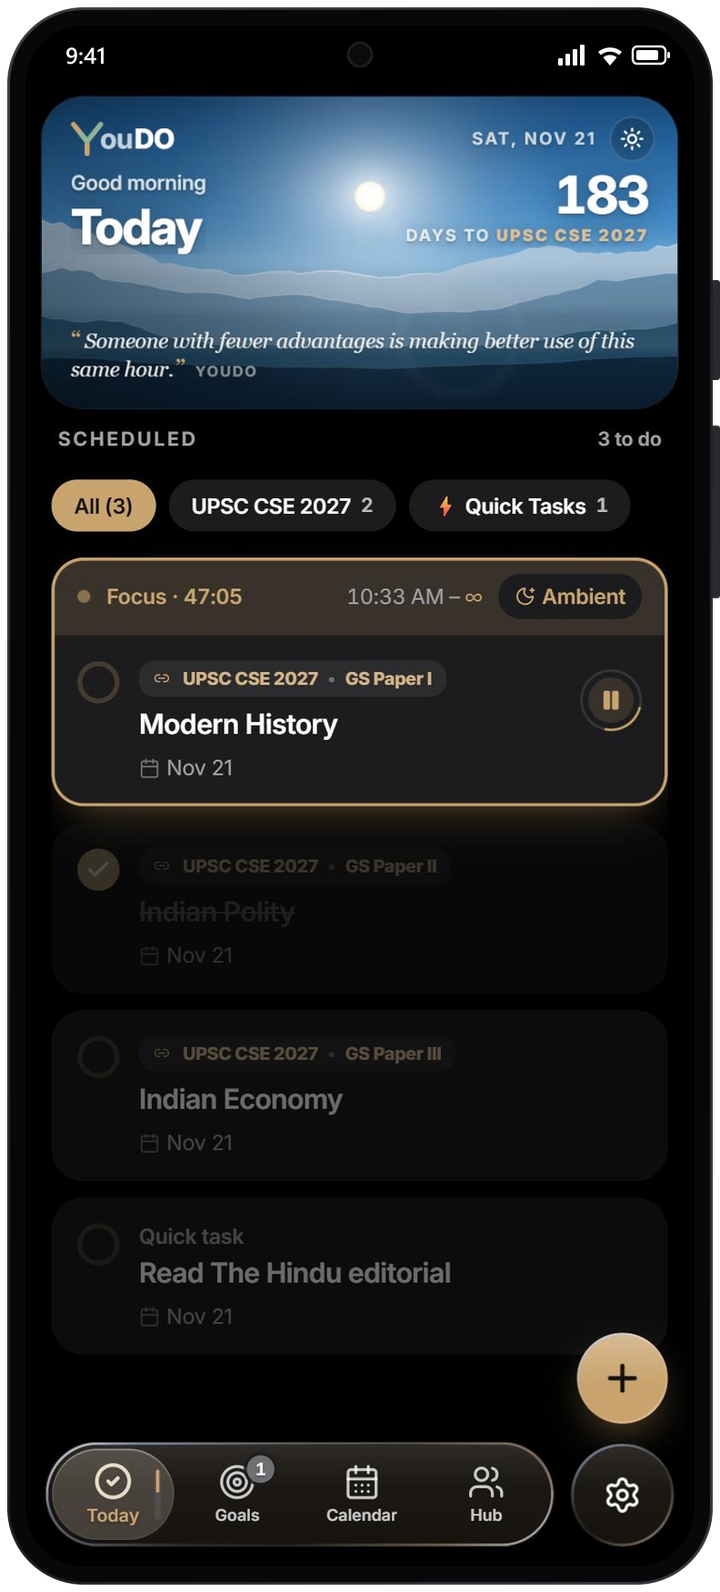
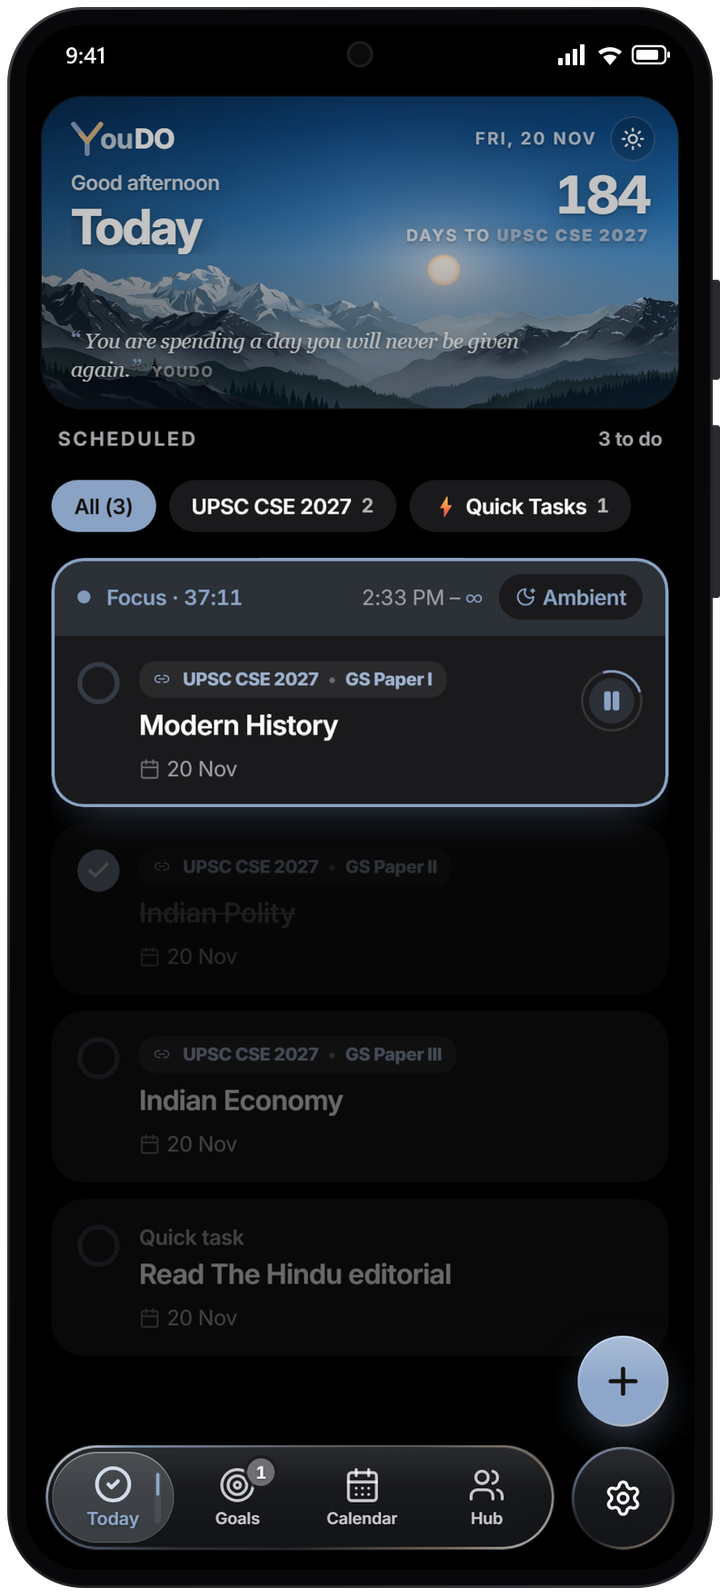
chore(release): v9.0.0 — Your Place, Your Colour
Version 9.0.0 (versionCode 101), CHANGELOG and store changelog 101,
README and store description, new screenshots with made-up data
(10-scenes replaces 10-summit), and HANDOFF.

diff --git a/src/lib/version.ts b/src/lib/version.ts
@@ -1,1 +1,1 @@
-export const APP_VERSION = '8.9.0';
+export const APP_VERSION = '9.0.0';

diff --git a/HANDOFF.md b/HANDOFF.md
@@ -1,12 +1,12 @@
 # Where We Left Off
 
-Last updated **2026-11-24**, while building **the next release (v9.0.0)** on the branch `release-v9.0.0`. Read this file first when coming back, then [AGENTS.md](AGENTS.md) (how we work) and [RELEASE_PROCEDURE.md](RELEASE_PROCEDURE.md) (how we ship).
+Last updated **2026-11-25**, while releasing **v9.0.0** (versionCode 101, "Your Place, Your Colour") from the branch `release-v9.0.0`. Read this file first when coming back, then [AGENTS.md](AGENTS.md) (how we work) and [RELEASE_PROCEDURE.md](RELEASE_PROCEDURE.md) (how we ship).
 
 ---
 
-## In progress: the next release (v9.0.0), branch `release-v9.0.0`
+## v9.0.0 (versionCode 101): what it contains
 
-Committed on the branch, not pushed or merged. The owner has more to add before releasing. The owner approved working from the mocks in `docs/mocks/v9-admin-and-tour.html` (rendered: `docs/mocks/v9-mocks.png`; local only, `docs/mocks/` is never committed), and asked that the plan be reviewed and built without waiting.
+Version, CHANGELOG, store text (changelog 101), README and screenshots are updated on the branch. Left for the owner: the pull request into `main`, the tag, the signed APK and the GitHub Release (steps 5–10 of RELEASE_PROCEDURE.md), then Orion's screenshot addresses pinned to the v9.0.0 commit (new order: 01 Today, 10 Scenes, 11 Focus Sky, 03 Goals, 04 Focus session, 05 Calendar, 02 Today at a glance, 09 Appearance; Summit is gone). The mocks in `docs/mocks/` stay local and are never committed.
 
 **1. A new Admin Hub, with one owner and many admins** (`src/components/AdminHubSheet.tsx`, `src/components/admin/`, `src/lib/adminHub.ts`, `supabase/admin_hub.sql`).
 - Five tabs:
@@ -85,7 +85,7 @@ Committed on the branch, not pushed or merged. The owner has more to add before 
 - **Your photo:** Settings → Appearance → Scene and colour → Your photo picks a photo (or uses the header photo), then suggests five colours found in it (k-means on the phone, `photoColors`), or a tap anywhere on the photo takes that spot. It becomes a soft dark-mode tone and a deeper light-mode one (`accentFromColor`), set as inline `--primary` / `--accent-tick` on <html>; widgets and notification icons follow it (`storedAccentSwatch`). Choosing a scene card switches a photo header back to the scene. The photo, its colour, its placement (Horizontal, Vertical, Opacity), Change and Remove all live in Your photo; under the cards (while a scene is the header) are "Sunrise and sunset for" (the sky location) and the weather button. The old Header background card is gone.
 - **The header has no planet any more:** its night sky is only the stars you earned and the constellation. The planet of the day stays on the ambient screen, and on Sundays there it shows nothing (no Sun in a night sky).
 - Tested: unit tests for the scenes (land stays under the words, deterministic, the fields' sunset on the horizon), accents (retired ones, custom, photo colours); the headers rendered from sunrise to night, cloudy and light mode, and the picker with a made-up photo in the browser. **Not on a phone yet.**
-- **Screenshots** (README, store, Orion) still show the old sky: retake them with made-up data before the release.
+- **Screenshots** retaken with made-up data for the release (01, 03, 04, 05, 09 and the new 10-scenes); 02, 06, 07, 08 and 11 are unchanged.
 
 **9. Email from the Admin Hub, Owner → Backers, and a clearer tour** (mocked and chosen by the owner: `docs/mocks/v9-email-backers-tour.png`).
 - **Email** (People tab → Email, a person's card → Email, Backers → Thank): `src/components/admin/AdminEmail.tsx`, `src/lib/adminEmail.ts`, `supabase/admin_email.sql`, edge functions `admin-email` and `email-stop`. To: Everyone, Backers (owner) or picked people (up to 50); kinds: News (big title), Thank you (owner; gold Founding Backer seal, `{amount}`), Note (signed with the sender's name). `{name}` is the first name; a blank line is a paragraph, a link on its own line a button, `**bold**`. Preview (the real template, `supabase/functions/_shared/emailTemplate.ts`, shared by the app and the sender), Send me a test, then a confirm step. It sends about one a second while the screen is open; Pause or closing it leaves the rest, and the Sent list has **Send the rest**. Limit 450 a day (`email_daily_limit`), shared by everyone. Admins never see addresses (the function reads them with the service key). Each send is in the activity log. Every email ends with **Stop these emails** (`email-stop.html` on the website, plus Gmail's one-click unsubscribe); it drops anything still waiting for that person and can be undone on the same page. Never banned people, unconfirmed addresses or people who stopped emails (a banned person picked by hand can get a note).
@@ -108,7 +108,7 @@ Committed on the branch, not pushed or merged. The owner has more to add before 
 9. **Done 2026-11-24 (the owner):** `owner-delete-accounts` and `delete-account` redeployed (ticked deletes and photo removal). Checked: both answer 401 without a sign-in.
 10. **Done 2026-11-24:** `owner_growth_report` from `admin_hub.sql` (the only part that changed: weeks of 7 days ending today, India time, with deleted accounts counted in their sign-up week, plus a `deleted` count per week). Checked: one copy, security definer, closed to signed-out visitors; a dry run as the owner returns 12 weeks (the last starting 6 days ago, each with `deleted`) and 30 days.
 
-**Still to do on the server for item 9, one step at a time:**
+**Server steps for item 9 (all done 2026-11-25):**
 11. The owner: on `team.youdo.app@gmail.com`, turn on 2-Step Verification, make an app password, and add the Supabase secrets `YOUDO_MAIL_USER` (that address) and `YOUDO_MAIL_APP_PASSWORD`. Optional: `EMAIL_LINK_SECRET` (any long random text) for the stop links; without it they use the service key.
 12. **Done 2026-11-25:** `admin_email.sql`. Checked: the three tables have RLS and no access for the app; signed-out visitors can call none of the functions; signed-in people only the six Admin Hub ones (each checks for staff itself); the batch, mark, stop, audience and totals functions only with the service key. (Step 11 done too: both secrets saved.)
 13. **Done 2026-11-25:** `admin-email` and `email-stop` deployed (`npx.cmd supabase functions deploy <name> --remote=iyrnywfaxakvjkmddmqv --use-api --yes`; `email-stop` with `--no-verify-jwt`). Checked: `admin-email` answers 401 without a sign-in; `email-stop` refuses a made-up link (400) and accepts the website's preflight.
@@ -143,7 +143,7 @@ Committed on the branch, not pushed or merged. The owner has more to add before 
 
 ## Current state
 
-- **Latest release:** v8.9.0, versionCode 100 (released 2026-11-21). Before it: v8.8.0, versionCode 99, released 2026-11-20.
+- **Latest release:** v9.0.0, versionCode 101 (being released 2026-11-25). Before it: v8.9.0, versionCode 100, released 2026-11-21.
   - It is on GitHub Releases with `YouDO.apk`.
   - The website https://youdo-app.vercel.app deploys from `main`.
 - **Git:** only the `main` branch should remain once `fixes` is merged and deleted.
@@ -155,7 +155,8 @@ Committed on the branch, not pushed or merged. The owner has more to add before 
   - v8.3.5, v8.4.0, v8.5.0, v8.5.1 and v8.5.2 had no server changes;
   - v8.5.3 changed `hub_focus_status.sql` and `hub_widget_push.sql`, both run in production on 2026-11-12 before the release (the owner reported success);
   - v8.5.4, v8.5.5, v8.6.0, v8.7.0 and v8.8.0 had no server changes;
-  - v8.9.0 added `community_push.sql`, run in production on 2026-11-21 before the release (checked: the four `push_preferences` columns with their defaults and the three triggers exist).
+  - v8.9.0 added `community_push.sql`, run in production on 2026-11-21 before the release (checked: the four `push_preferences` columns with their defaults and the three triggers exist);
+  - v9.0.0 added `admin_hub.sql`, `backer_push.sql`, `profile_photos.sql`, `community_room_members.sql`, `admin_email.sql` and the functions `owner-delete-accounts`, `admin-email` and `email-stop` (redeployed `delete-account`), all applied and checked 2026-11-24/25 before the release (see the server steps under v9.0.0).
 - **What v8.3.2 contained:** Admin Hub → Controls → Support settings (UPI ID, QR code on/off, badge claims on/off, Support on/off). The QR is drawn from the UPI ID.
 - **What v8.3.1 contained:**
   - widgets that move on to a new day without the app;

diff --git a/README.md b/README.md
@@ -22,15 +22,16 @@ UPSC, JEE, NEET, GATE, CAT, government exams, university entrances, and every se
 
 <br />
 
-<img src="docs/screenshots/01-today.png" width="180" alt="Today under the sky header, with goal-linked tasks" />
+<img src="docs/screenshots/01-today.png" width="180" alt="Today under the harvest-fields header at sunrise, with goal-linked tasks" />
 <img src="docs/screenshots/02-today-at-a-glance.png" width="180" alt="Today at a glance" />
 <img src="docs/screenshots/03-goals.png" width="180" alt="A goal broken into papers and chapters" />
-<img src="docs/screenshots/04-focus-session.png" width="180" alt="A running focus session under the sky header" />
+<img src="docs/screenshots/04-focus-session.png" width="180" alt="A running focus session under the Himalaya header" />
 <img src="docs/screenshots/05-calendar.png" width="180" alt="Calendar with the day summary" />
 <img src="docs/screenshots/06-daily-focus-stats.png" width="180" alt="Daily focus stats" />
 <img src="docs/screenshots/07-private-hub-chats.png" width="180" alt="Private Hub chats" />
 <img src="docs/screenshots/08-study-room.png" width="180" alt="A study room with live focus" />
-<img src="docs/screenshots/09-appearance.png" width="180" alt="Appearance: accent colours, app icons and the sky header" />
+<img src="docs/screenshots/09-appearance.png" width="180" alt="Appearance: the three scenes and their colours, or a colour from your photo" />
+<img src="docs/screenshots/10-scenes.png" width="180" alt="The Western Ghats header on a monsoon afternoon" />
 <img src="docs/screenshots/11-focus-sky.png" width="180" alt="Focus Sky: the ambient timer under today's earned stars, a constellation and Saturn" />
 
 </div>
@@ -173,6 +174,9 @@ Signed-in users get a private space next to the public Board:
 - **Room chat with @mentions**: type @ to pick a member, or @all for the whole room.
 - **Notifications that respect your attention**: messages, requests, invites and @mentions arrive even when the app is closed, in rooms and in the community chat (an @mention or a reply to your message); ordinary chat stays quiet unless you choose **All messages** or **All in my room**. Each kind can be switched off in **Settings → Notifications**; the unread dots inside the app always show.
 
+
+Set your own **profile photo** (moved and zoomed to fit, kept small), and Founding Backers wear a gold ring wherever their picture shows. Chats read like a messenger: one person's messages group together with their picture and name, the time sits inside the bubble, and in your exam hashtag room the people button shows who's in it, so you can add them as friends.
+
 ### Make it yours
 
 <p>
@@ -185,7 +189,7 @@ Signed-in users get a private space next to the public Board:
 
 v8 brings a new look: large titles, borderless cards and a floating **Liquid Glass** tab bar. In **Settings → Preferences** pick Dark or Light, a scene and its colour (Harvest fields with Sand, Himalaya with Slate, Western Ghats with Sage, or a colour taken from your own photo; the start screen, header, widgets and notifications follow it) and one of five app icons. **Classic Look** brings back the v7 design ([v7 screenshots](docs/screenshots/v7-classic)).
 
-Every tab opens with a **sky header**: a small Indian landscape (the scene that goes with your colour) whose sky follows the real sun for your place (sunrise, noon and sunset from the date and your time zone or Indian state, with no location access), today's earned focus stars at night, a greeting, the countdown to your nearest goal deadline and the day's quote. Set the day's weather (clear, cloudy or rainy) with the button beside the date, and tap the sun to replay today's sky from dawn to now. In **Settings → Appearance → Scene and colour** pick the scene (and its colour), where your sunrise and sunset are worked out for, and the weather button; or use your own photo as the header and take the app's colour from it.
+Every tab opens with a **sky header**: an illustrated Indian landscape (the harvest fields, the Himalaya or the Western Ghats, the scene that goes with your colour) under a live sky that follows the real sun for your place (sunrise, noon and sunset from the date and your time zone or Indian state, with no location access), today's earned focus stars at night, a greeting, the countdown to your nearest goal deadline and the day's quote. Each scene starts the day with its own weather (sun on the fields, cloud over the Himalaya, monsoon rain in the Ghats, and now and then a rainbow on a rainy morning or evening); change it with the button beside the date, and tap the sun to replay today's sky from dawn to now. In **Settings → Appearance → Scene and colour** pick the scene (and its colour), where your sunrise and sunset are worked out for, and the weather button; or use your own photo as the header and take the app's colour from it.
 
 ## Your data remains yours
 
@@ -203,6 +207,8 @@ Use YouDO without an account (**Continue offline**), or sign in for cloud backup
 - **No paid tier or advertising:** the current project is free and open source.
 
 ## Get YouDO
+
+New here? A four-step tour picks your exam, builds a starter plan with subjects and chapters, puts the first chapter on today and starts your first focus session. Skip it any time; the full guide stays in Settings.
 
 ### Install the Android APK
 

diff --git a/CHANGELOG.md b/CHANGELOG.md
@@ -17,6 +17,17 @@ Guidance: keep 3–6 short, user-facing bullets. Group related small fixes under
 
 ---
 
+## [v9.0.0] - 2026-11-25 - Your Place, Your Colour
+
+- **Three Indian scenes** — The header is now the harvest fields, the Himalaya or the Western Ghats, matched to your colour (Sand, Slate or Sage), under a live sky: the real sunrise and sunset, your earned stars at night, each scene's own weather, and now and then a rainbow after rain. Or take the colour from your own photo.
+- **A calmer first five minutes** — New accounts pick their exam, get a starter plan, put the first chapter on today and start focusing, in four short steps.
+- **Your own photo** — Set a profile picture; Founding Backers wear a gold ring everywhere in YouDO.
+- **Chats like a messenger** — Messages from one person group together with their picture and name, times sit inside the bubbles, and you can see who's in your exam room and add them as friends.
+- **Smaller fixes** — No "Save streak" for a day that only looked missed at midnight, a session's pauses with their times, and a calmer person card for admins.
+- **Android APK** — versionName **9.0.0**, versionCode **101**. Installs over v8.9.0 (100).
+
+---
+
 ## [v8.9.0] - 2026-11-21 - Never Miss A Mention
 
 - **Community pushes** — When someone @mentions you or replies to your message in the community chat or your exam hashtag room, you're notified even with YouDO closed, before the message disappears.
